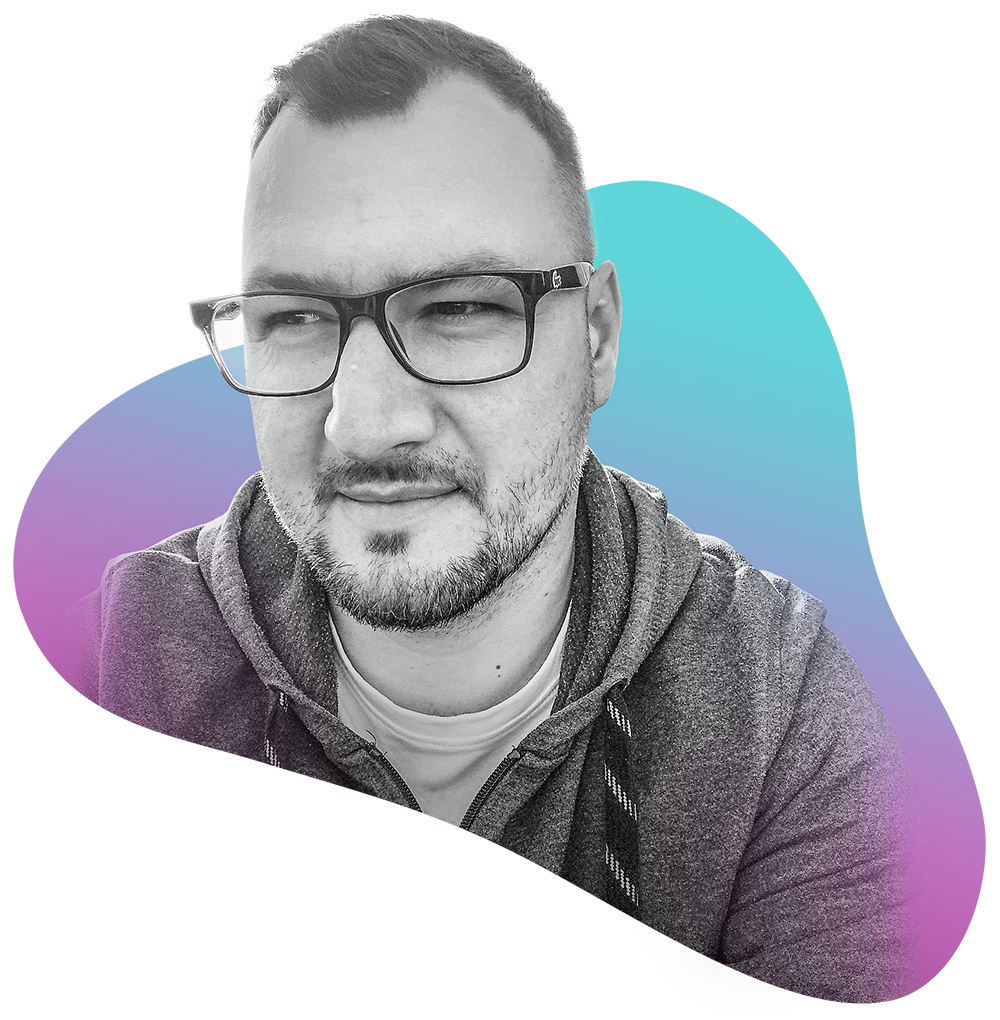
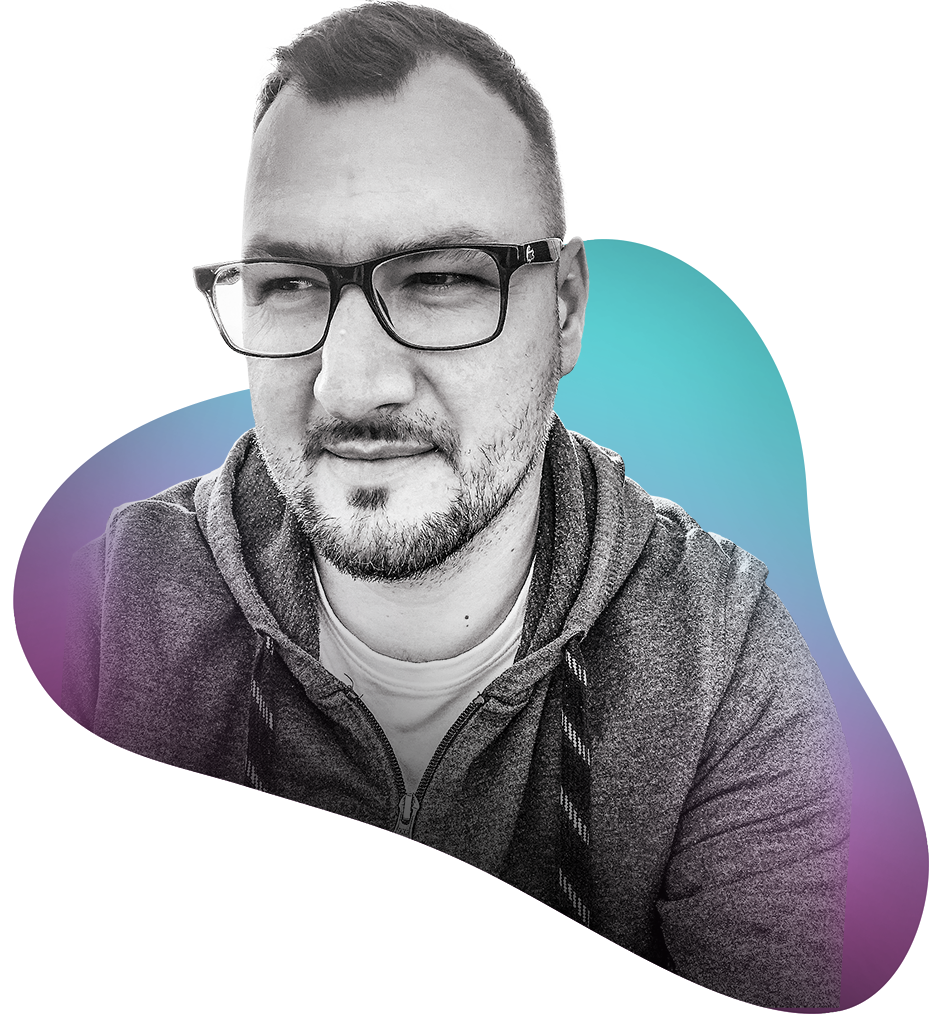
me.png and styles update

diff --git a/src/components/Portfolio/StyledPortfolio.js b/src/components/Portfolio/StyledPortfolio.js
@@ -21,7 +21,7 @@ export const PContainer = styled.section.attrs((props) => ({
 
   @media ${breakpoint.desktop} {
     grid-template-columns: repeat(3, 1fr);
-    // padding: 6rem;
+    padding: 2rem 4rem;
   }
 
   @media ${breakpoint.desktopXL} {
@@ -37,6 +37,8 @@ export const PBoxContainer = styled.div`
 `;
 
 export const PBox = styled.article`
+  display: flex;
+  justify-content: center;
   object-fit: cover;
   max-height: 50vh;
   display: grid;
@@ -44,8 +46,7 @@ export const PBox = styled.article`
   overflow: hidden;
   position: relative;
   background: ${(props) => props.bgColor};
-  display: flex;
-  justify-content: center;
+  border-radius: 0.5rem;
 `;
 
 export const PBoxImg = styled.img`

diff --git a/src/components/Header/StyledHeader.js b/src/components/Header/StyledHeader.js
@@ -29,17 +29,17 @@ export const Image = styled(motion.img).attrs({
   width: 65%;
   height: auto;
   position: absolute;
-  top: -30px;
+  top: -50px;
   right: 0;
 
   @media ${breakpoint.tablet} {
     width: 50%;
-    top: -70px;
+    top: -90px;
     right: -30px;
   }
 
   @media ${breakpoint.desktopXL} {
-    top: -100px;
+    top: -120px;
     right: -50px;
 `;
 

diff --git a/src/style.css b/src/style.css
@@ -21,7 +21,7 @@ body {
     rgba(221, 221, 221, 1) 0.1%,
     rgb(210, 210, 210) 90%
   ); */
-  background-color: #1f2329;
+  background-color: #242930;
 }
 
 .background-gradient {
